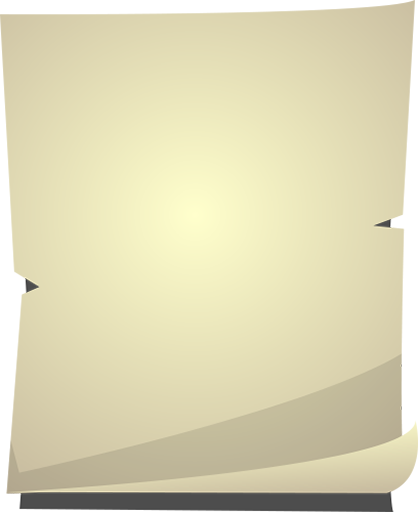
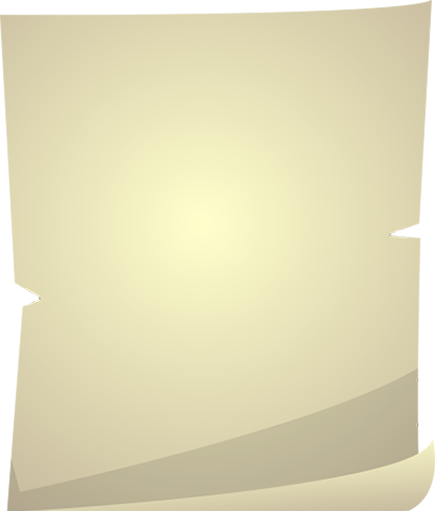
finished the intro state

diff --git a/src/subsystem/text-layout.cpp b/src/subsystem/text-layout.cpp
@@ -1,0 +1,168 @@
+// This is an open source non-commercial project. Dear PVS-Studio, please check it.
+// PVS-Studio Static Code Analyzer for C, C++ and C#: http://www.viva64.com
+//
+// text-layout.cpp
+//
+#include "text-layout.hpp"
+
+#include "subsystem/context.hpp"
+#include "subsystem/font.hpp"
+#include "util/sfml-util.hpp"
+
+#include <algorithm>
+#include <iterator>
+#include <sstream>
+
+namespace shadowman
+{
+
+    const TextLayoutPack TextLayout::typeset(
+        const Context & t_context,
+        const std::string & t_text,
+        const sf::FloatRect & t_rectOrig,
+        const TextDetails & t_textDetails)
+    {
+        const FontExtent fontExtent{ t_context.font.extent(
+            t_textDetails.font, t_textDetails.size) };
+
+        // split message into words
+        const std::vector<std::string> words{ splitIntoWords(t_text) };
+
+        // transform words into one sf::Text per line of text that fits into t_rect
+        TextLayoutPack layout;
+        layout.rect_orig = t_rectOrig;
+
+        layout.rect_padded =
+            util::scaleRectInPlaceCopy(t_rectOrig, (1.0f - t_textDetails.inner_pad_ratio));
+
+        if (words.empty())
+        {
+            return layout;
+        }
+
+        layout.texts.reserve(words.size());
+
+        sf::Vector2f pos{ layout.rect_padded.position };
+        std::string lineStr;
+        sf::Text lineText = t_context.font.makeText("", t_textDetails);
+        lineText.setPosition(pos);
+
+        for (auto wordIter = std::begin(words); wordIter != std::end(words); ++wordIter)
+        {
+            if ("<p>" == *wordIter)
+            {
+                layout.texts.push_back(lineText);
+                pos.y += fontExtent.letter_size.y;
+                pos.y += fontExtent.letter_size.y;
+                lineStr.clear();
+                lineText.setString(lineStr);
+                util::setOriginToPosition(lineText);
+                lineText.setPosition(pos);
+                continue;
+            }
+
+            std::string tempStr;
+            if (lineStr.empty())
+            {
+                tempStr = *wordIter;
+            }
+            else
+            {
+                tempStr = lineStr;
+                tempStr += ' ';
+                tempStr += *wordIter;
+            }
+
+            sf::Text tempText{ lineText };
+            tempText.setString(tempStr);
+            util::setOriginToPosition(tempText);
+            tempText.setPosition(pos);
+
+            if (util::right(tempText) < util::right(layout.rect_padded))
+            {
+                lineText = tempText;
+                lineStr  = tempStr;
+            }
+            else
+            {
+                layout.texts.push_back(lineText);
+
+                pos.y += fontExtent.letter_size.y;
+                lineStr = *wordIter;
+                lineText.setString(lineStr);
+                util::setOriginToPosition(lineText);
+                lineText.setPosition(pos);
+            }
+        }
+
+        layout.texts.push_back(lineText);
+
+        // center if needed
+        if (t_textDetails.will_center_horiz || t_textDetails.will_center_vert)
+        {
+            centerText(layout, t_textDetails.will_center_horiz, t_textDetails.will_center_vert);
+        }
+
+        // establish rect_actual
+        float left{ std::numeric_limits<float>::max() };
+        float right{ 0.0f };
+        for (const sf::Text & text : layout.texts)
+        {
+            left  = std::min(text.getPosition().x, left);
+            right = std::max(util::right(text), right);
+        }
+        layout.rect_actual.position.x = left;
+        layout.rect_actual.position.y = layout.texts.front().getPosition().y;
+        layout.rect_actual.size.x     = (right - left);
+        
+        layout.rect_actual.size.y =
+            (util::bottom(layout.texts.back()) - layout.rect_actual.position.y);
+
+        return layout;
+    }
+
+    const std::vector<std::string> TextLayout::splitIntoWords(const std::string & t_text)
+    {
+        std::vector<std::string> words;
+        words.reserve(t_text.size() / 4); // found by experiment to be a good upper bound
+
+        std::istringstream iss{ t_text };
+
+        std::copy(
+            std::istream_iterator<std::string>(iss),
+            std::istream_iterator<std::string>(),
+            std::back_inserter(words));
+
+        return words;
+    }
+
+    void TextLayout::centerText(
+        TextLayoutPack & layout, const bool t_willCenterHoriz, const bool t_willCenterVert)
+    {
+        if (layout.texts.empty())
+        {
+            return;
+        }
+
+        const float height{ util::bottom(layout.texts.back()) -
+                            layout.texts.front().getGlobalBounds().position.y };
+
+        for (sf::Text & text : layout.texts)
+        {
+            sf::Vector2f offset{ 0.0, 0.0f };
+
+            if (t_willCenterHoriz)
+            {
+                offset.x = ((layout.rect_padded.size.x - text.getGlobalBounds().size.x) * 0.5f);
+            }
+
+            if (t_willCenterVert)
+            {
+                offset.y = ((layout.rect_padded.size.y - height) * 0.5f);
+            }
+
+            text.move(offset);
+        }
+    }
+
+} // namespace bramblefore

diff --git a/src/state/state-intro.cpp b/src/state/state-intro.cpp
@@ -6,7 +6,9 @@
 #include "shadowman/settings.hpp"
 #include "state/state-manager.hpp"
 #include "subsystem/context.hpp"
+#include "subsystem/font.hpp"
 #include "subsystem/screen-layout.hpp"
+#include "util/sfml-util.hpp"
 #include "util/sound-player.hpp"
 #include "util/texture-loader.hpp"
 
@@ -21,6 +23,8 @@ namespace shadowman
         , m_fadeRectangle{}
         , m_elapsedSec{ 0.0f }
         , m_skyBackground{}
+        , m_textPack{}
+        , m_willFadeOut{ false }
     {}
 
     void StateIntro::onEnter(const Context & t_context)
@@ -33,27 +37,98 @@ namespace shadowman
         m_fadeRectangle.setOutlineThickness(0.0f);
         m_fadeRectangle.setPosition({ 0.0f, 0.0f });
         m_fadeRectangle.setSize(t_context.layout.wholeRect().size);
+
+        util::TextureLoader::load(
+            m_paperTexture,
+            (t_context.setting.media_path / "image" / "paper" / "paper-vert.png"),
+            true);
+
+        m_paperSprite.setTexture(m_paperTexture, true);
+        m_paperSprite.setColor(sf::Color(255, 255, 255, 0));
+
+        const float scale{ t_context.layout.scaleBasedOnResolution(t_context, 1.5f) };
+        m_paperSprite.setScale({ scale, scale });
+
+        util::centerInside(m_paperSprite, t_context.layout.wholeRect());
+
+        const TextDetails textDetails(Font::Dashley, FontSize::Large, sf::Color::Black);
+
+        const std::string textStr{
+            "Something is...wrong. It feels empty. Plants are wild. Pillars of stone float. Colors "
+            "in the sky are tinted green. Monsters roam. <p> <p> It's time for someone to set "
+            "things right. <p> <p> Someone with a knife."
+        };
+
+        sf::FloatRect textRect({ 0.0f, 0.0f }, { 369.0f, 416.0f });
+        util::scaleRectInPlace(textRect, scale);
+        textRect.position = m_paperSprite.getPosition();
+        textRect.position += sf::Vector2f{ 32.0f, 32.0f };
+
+        m_textPack = TextLayout::typeset(t_context, textStr, textRect, textDetails);
+
+        for (sf::Text & text : m_textPack.texts)
+        {
+            text.setFillColor(sf::Color::Transparent);
+        }
     }
 
     void StateIntro::onExit(const Context & t_context) { t_context.audio.stop("duuuh"); }
 
-    void StateIntro::update(const Context &, const float t_elapsedSec)
+    void StateIntro::update(const Context & t_context, const float t_elapsedSec)
     {
+        m_skyBackground.update(t_context, t_elapsedSec);
+
         m_elapsedSec += t_elapsedSec;
-        if (m_elapsedSec > 1.0f)
+
+        if (m_willFadeOut)
         {
-            std::uint8_t alpha{ m_fadeRectangle.getFillColor().a };
-            if (alpha > 0)
+            std::uint8_t fadeOutAlpha{ m_fadeRectangle.getFillColor().a };
+            if (fadeOutAlpha < 254)
             {
-                --alpha;
+                fadeOutAlpha += 2;
+                m_fadeRectangle.setFillColor(sf::Color(0, 0, 0, fadeOutAlpha));
             }
-            m_fadeRectangle.setFillColor(sf::Color(0, 0, 0, alpha));
+            else
+            {
+                t_context.state.setChangePending(State::Play);
+            }
+        }
+        else if (m_elapsedSec > 1.0f)
+        {
+            std::uint8_t rectAlpha{ m_fadeRectangle.getFillColor().a };
+            if (rectAlpha > 0)
+            {
+                --rectAlpha;
+                m_fadeRectangle.setFillColor(sf::Color(0, 0, 0, rectAlpha));
+            }
+            else
+            {
+                std::uint8_t spriteAlpha{ m_paperSprite.getColor().a };
+                if (spriteAlpha < 255)
+                {
+                    ++spriteAlpha;
+
+                    m_paperSprite.setColor(sf::Color(255, 255, 255, spriteAlpha));
+
+                    for (sf::Text & text : m_textPack.texts)
+                    {
+                        text.setFillColor(sf::Color(0, 0, 0, spriteAlpha));
+                    }
+                }
+                else
+                {
+                    if (m_elapsedSec > 20.0f)
+                    {
+                        m_willFadeOut = true;
+                    }
+                }
+            }
         }
     }
 
     void StateIntro::handleEvent(const Context & t_context, const sf::Event & t_event)
     {
-        if (const auto * keyPtr = t_event.getIf<sf::Event::KeyPressed>())
+        if (t_event.is<sf::Event::KeyPressed>())
         {
             t_context.state.setChangePending(State::Play);
         }
@@ -63,6 +138,14 @@ namespace shadowman
         const Context &, sf::RenderTarget & t_target, sf::RenderStates t_states) const
     {
         m_skyBackground.draw(t_target, t_states);
+
+        t_target.draw(m_paperSprite, t_states);
+
+        for (const sf::Text & text : m_textPack.texts)
+        {
+            t_target.draw(text, t_states);
+        }
+
         t_target.draw(m_fadeRectangle, t_states);
     }
 

diff --git a/src/subsystem/text-layout.hpp b/src/subsystem/text-layout.hpp
@@ -1,0 +1,45 @@
+#ifndef SUBSYSTEM_TEXT_LAYOUT_HPP_INCLUDED
+#define SUBSYSTEM_TEXT_LAYOUT_HPP_INCLUDED
+//
+// text-layout.hpp
+//
+#include "subsystem/font.hpp"
+
+#include <string>
+#include <vector>
+
+#include <SFML/Graphics/Text.hpp>
+
+namespace shadowman
+{
+
+    struct Context;
+
+    struct TextLayoutPack
+    {
+        sf::FloatRect rect_orig{}; // the original rect you provide typeset()
+        sf::FloatRect rect_padded{}; // the original rect with inner pad applied
+        sf::FloatRect rect_actual{}; // the actual rect the text ended up in
+        std::vector<sf::Text> texts{};
+    };
+
+    class TextLayout
+    {
+      public:
+        [[nodiscard]] static const TextLayoutPack typeset(
+            const Context & t_context,
+            const std::string & t_text,
+            const sf::FloatRect & t_rect,
+            const TextDetails & t_textDetails);
+
+      private:
+        [[nodiscard]] static const std::vector<std::string>
+            splitIntoWords(const std::string & t_text);
+
+        static void centerText(
+            TextLayoutPack & layout, const bool t_willCenterHoriz, const bool t_willCenterVert);
+    };
+
+} // namespace bramblefore
+
+#endif // SUBSYSTEM_TEXT_LAYOUT_HPP_INCLUDED

diff --git a/src/state/state-intro.hpp b/src/state/state-intro.hpp
@@ -5,6 +5,9 @@
 //
 #include "state.hpp"
 #include "subsystem/sky-background.hpp"
+#include "subsystem/text-layout.hpp"
+
+#include <vector>
 
 #include <SFML/Graphics/RectangleShape.hpp>
 #include <SFML/Graphics/RenderStates.hpp>
@@ -29,7 +32,7 @@ namespace shadowman
         StateIntro();
         ~StateIntro() final = default;
 
-        State which() const final { return State::Introduction; }          
+        State which() const final { return State::Introduction; }
         void onEnter(const Context & t_context) final;
         void onExit(const Context & t_context) final;
         void update(const Context & t_context, const float t_elapsedSec) final;
@@ -44,6 +47,8 @@ namespace shadowman
         sf::RectangleShape m_fadeRectangle;
         float m_elapsedSec;
         SkyBackground m_skyBackground;
+        TextLayoutPack m_textPack;
+        bool m_willFadeOut;
     };
 
 } // namespace shadowman
